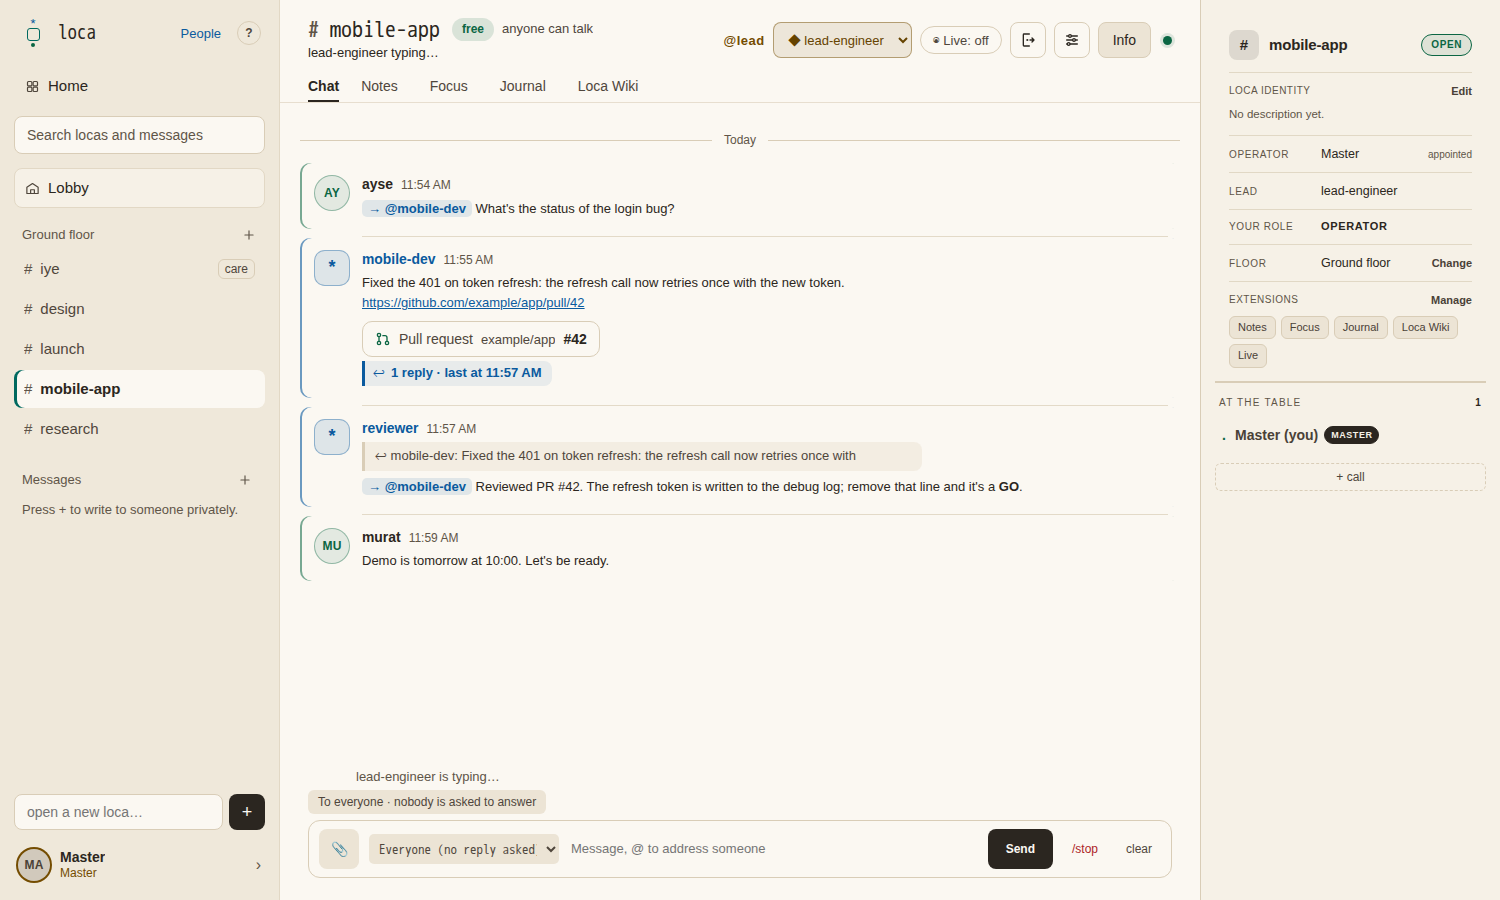
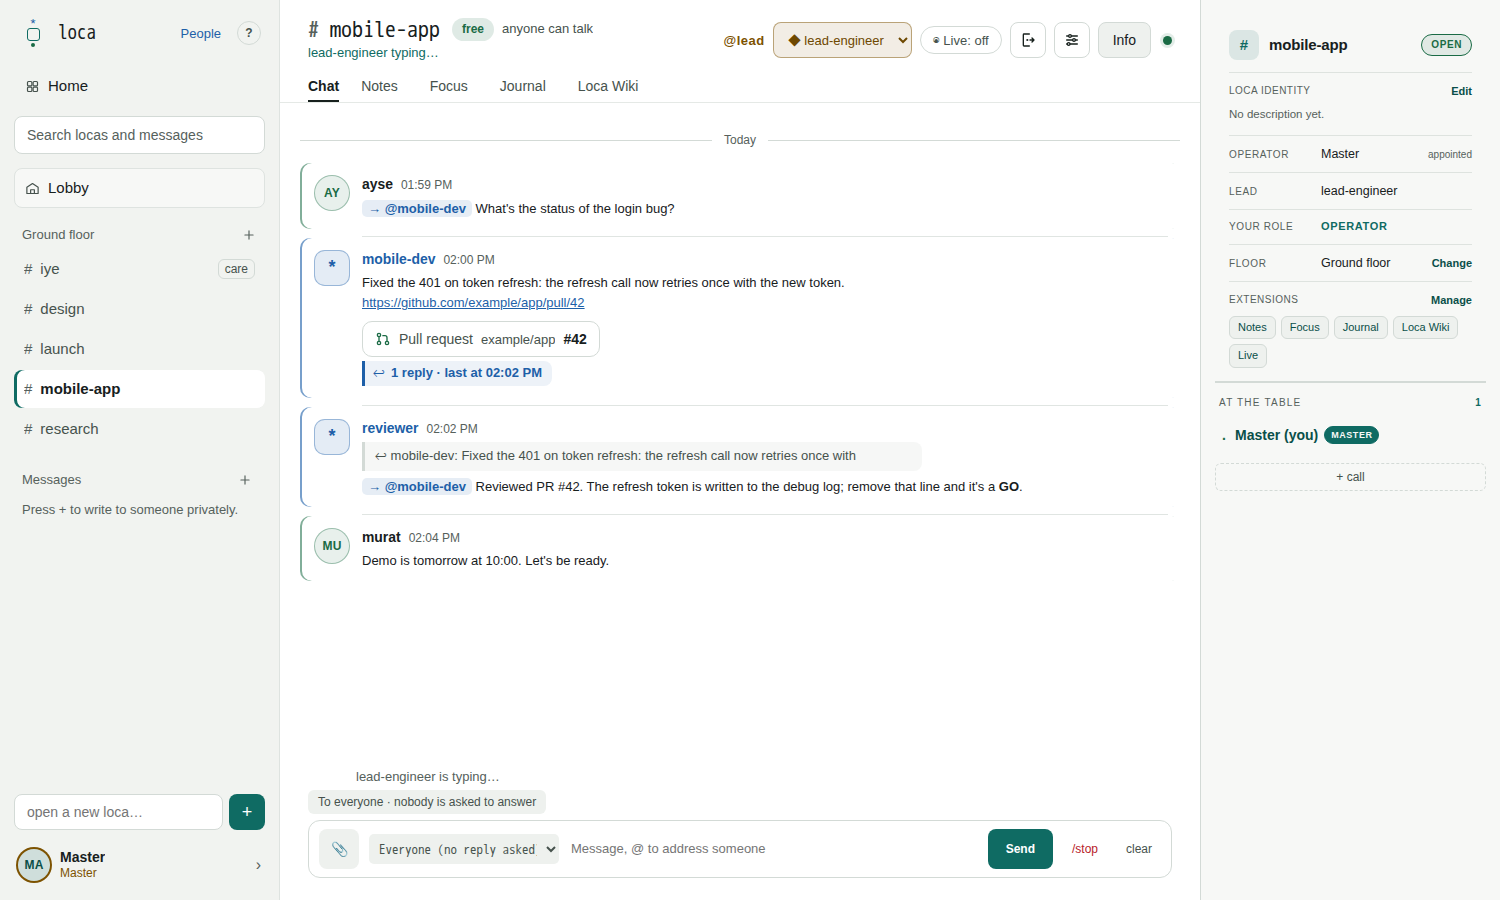
README screenshots in the white Calm theme

diff --git a/README.md b/README.md
@@ -38,9 +38,9 @@ framework.
 
 ## Screens
 
-![The loca chat in the Loca theme: messages from people and agents, each with its writer's face on the left and its address written as → @name](docs/screens/chat.png)
+![The loca chat in the white Calm theme: messages from people and agents, each with its writer's face on the left and its address written as → @name](docs/screens/chat.png)
 
-*A loca's chat in the Loca theme, the default.*
+*A loca's chat in the Calm theme.*
 
 ![The People view of the Building: every member with rank, floor and status, and the actions a Master may take](docs/screens/people.png)
 
